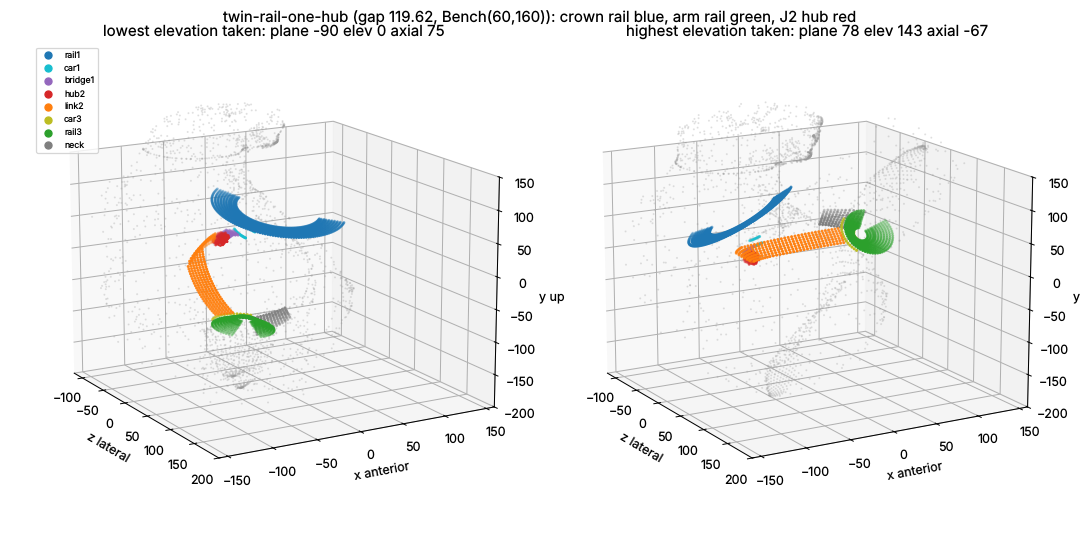
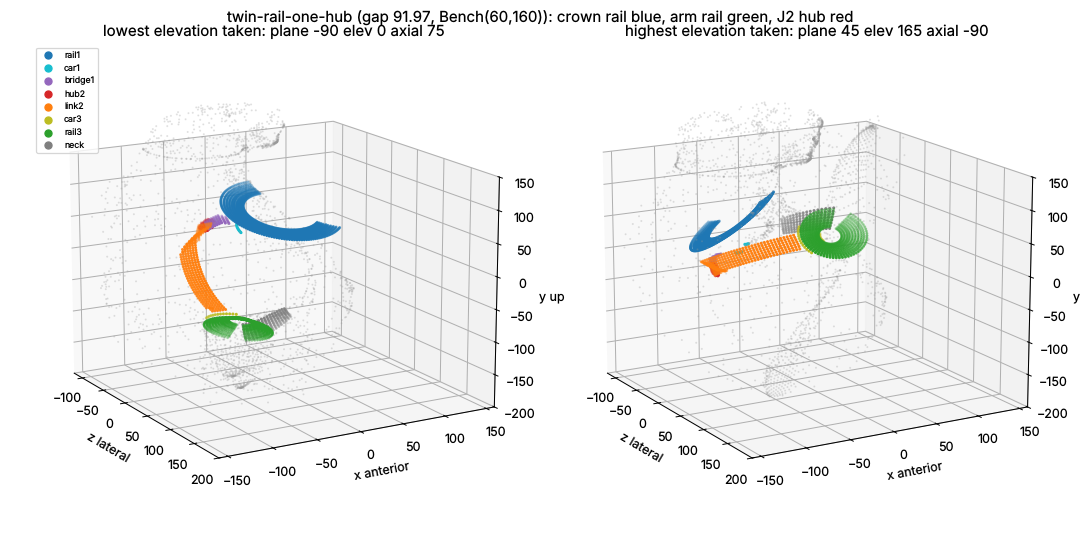
twin-rail-one-hub dead: gate converged over 1509 tries, best 91.97 vs champion 68.93; long constant-section rails cannot hug (crown rail 0 % in band), the arm rail collapses into a ring bearing, J2 / link 2 untouched
Claude-Session: https://claude.ai/code/session_014NJ3o5nJ9b1u4LXnQRjmMh

diff --git a/docs/concepts/twin-rail-one-hub.md b/docs/concepts/twin-rail-one-hub.md
@@ -104,3 +104,78 @@ the arm) is never honest: in every one J2's axis finds no skin to sit on within 
 * **The variant that removes the crown-rail limiter** (`revolve=0`: crown rail shaped per station, a cam track with a
   radial float in carriage 1; an optimistic bound, the float's own height not charged): crown rail 0.64 in band,
   in-band 14 0.42, but **gap 97.64** (reach 0.54, follow 0.82, the same pose losses). Still 29 behind the champion.
+
+## CMA-ES on the farm (tools/concept_cma.py, popsize 8, sigma 0.3; 4 streams; 1712 s wall, $0.19)
+
+Parameters: az1, el1 (crown-rail axis a1), wd, wa (arm-rail axis a3), a12, a23, d1 (rail-to-hub cone offset), ar3,
+cov, Lc; W1 = W3 = 20, margin 10, q 1.0, constant-section rails. Every try is in the sweep log, in order.
+
+| stream (start) | tries | best honest gap | note |
+|---|---|---|---|
+| A (coarse leader k64) | 1105 | **91.97** (k1091) | converged (sigma 0.3 -> collapse); top 5 within 0.02 gap |
+| B (k94) | 81 | none honest | link 2 floats > 140 mm (sparse), best dishonest 103.05 |
+| C (k124, crown rail 0.34 in the coarse) | 97 | none honest | bridge + link 2 float, best dishonest 106.56 |
+| D (k134, arm rail lower on the arm, ar3 31) | 57 | none honest | crown rail, bridge, link 2 float, best dishonest 114.54 |
+
+**Convergence gate (variant a, all 1509 tries in order, score points): gain over the 2nd half 0.10 (< 1), over the
+last third 0.02 (< 0.5), top-5 spread 0.01 (<= 3): CONVERGED** (stream A's basin; stream A alone: 0.10 / 0.05 / 0.01).
+
+**Best k1091** (Bench(60,160), fast grid, march, K2 dense, K6, audit clean; re-run locally: identical 91.97, honest):
+gap **91.97** (score **66.6**): reach 0.744, follow 0.950, in-band 14 0.137, in-band 10 0.084, contact 0. Crown rail
+about a1 = bvec(97.7, 65.3) at cone 31.2 deg (rows 93-108 mm, 216 deg, 184 mm long); J2 at a12 53.4 (level 92 mm,
+15.6 mm free above it: parking rule OK); arm rail a near-closed ring (329 deg, cone 11.2 deg about a3 = wdir(49.0,
+-28.8), rows 112-128 mm, ~22 mm ring radius) - a ring bearing round a lateral humeral pole, not a rail along the
+arm; a23 88.8, sigma -1, cov 0.966, shoe 24 mm (the clamp; CMA asked 23.1). Layout fix point: R1 94 / fitted 93,
+R3 108 / fitted 112 (bands at or above their nominal width). Ti mass 298 g (335 g with 5.5 mm straps).
+Per member in band: crown rail **0.0006**, carriage-1 lips 0.99, bridge 0.0, **hub 2 0.0009**, **link 2 0.0002**,
+carriage-3 lips 0.04, arm rail 0.23, neck 0.97.
+
+## Red team of the best (k1091)
+
+* **Pose groups taken**: rest 57 / 57; **overhead 6 / 17** (3 closure, 4 beyond the rails, 4 part collisions);
+  across the body 20 / 27 (3 closure, 4 beyond the rails); behind the back 18 / 21 (3 beyond the rails).
+* **The pose that jams** (measured per lost overhead pose): the *Raise overhead* clip frames at plane 30, elevation
+  135-150, axial -45..-60: the arm-fixed K7 neck runs into the S-fixed crown rail (K6). Plane 0-30, elevation 150,
+  axial 0: the J2 fold (closure margin -17..-20 deg). Plane 90-120, elevation 150-165, axial -90..-135: beyond the
+  rails' travel. Plane 105, elevation 165: carriage 3 against the neck.
+* **The pose that sets the crown rail**: plane 45, elevation 165, axial -90: rows 93-108 mm against a median skin
+  requirement of **51 mm** along the arc. The arm rail is set by plane 45, elevation 15, axial -105 (strong internal
+  rotation): rows 112-128 mm against a median 90.
+* **The point that pinches**: the neck at 2.02 mm (hand behind the back, plane -90, elev 45, axial 120; and full
+  elevation, plane 60, elev 165) and the arm rail at 2.02 mm (plane 45, elev 15, axial -105): taken, on the 2 mm rule.
+* **The optimistic numbers**: (1) the carriage-1 lips (0.99 in band) and the neck (0.97) carry the whole in-band
+  share; the morphology's own rails and the middle joint are ~0. (2) The shaped crown-rail bound (97.64 at the coarse
+  leader) does not charge the radial float's height. (3) The arm "rail" is legal only because a 24 mm shoe may wrap
+  up to 120 deg of its circle; with the spec's 40-60 mm shoe it would not close at this ring radius.
+
+## Verdict
+
+**Dead, with the gate converged.** Best honest gap 91.97 (score 66.6), against the spherical champion's 68.93 and
+the verified leaders 64.7 / 66.47 on the same idea of a 3R. Measured reasons:
+1. **The rails attack the wrong limiter.** The pole hubs were never the problem (O20 hubs at J1 / J3 sit 98-100 % in
+   band in every verified 3R). The spherical family's limiter, J2 and link 2 over the deltoid, is untouched: here
+   hub 2 is 0.0009 and link 2 0.0002 in band.
+2. **A long arc rail cannot hug.** The 3R's carriage travels are >= ~300 deg in sum over every valid axis set, so
+   each rail spans 120-190 deg plus the shoe. One constant section must clear the highest skin anywhere on that arc
+   in any pose: the crown rail sits 93-108 mm over skin whose median requirement along the arc is 51 mm (set by full
+   elevation, where the arm passes under the S-fixed arc). It is never in band.
+3. **The arm rail cannot be a rail.** To span the humeral rotation range it must wrap 210-330 deg; the search
+   collapses it into a 22 mm ring bearing round a lateral humeral pole, the J3 hub again, and reach is still capped
+   at 0.74 (cov 1.0 would need 420 deg).
+4. **The variant that removes limiter 2** (crown rail shaped per station: a cam track with a radial float, which
+   costs height that was not charged) still scores only 97.64 at the coarse leader's axes: the reach and J2 / link 2
+   losses remain.
+
+What predicts beyond this morphology: any joint realised as an arc rail on a body segment inherits the 3R's joint
+travel (here >= ~300 deg summed), and a rigid constant section on a 120-190 deg arc is set by the single highest
+skin point along the arc over all poses. Rails pay only where the travel is short (< ~60 deg) or where the rail
+follows a body-fixed path whose skin radius is constant along it. Neither holds at J1 or J3 of a shoulder 3R.
+
+## Files
+
+* model: docs/concepts/models/twin-rail-one-hub.py (`check k=v ...`, `redteam k=v ...`; `bench_eval` / `evaluate`
+  hooks for tools/concept_sweep.py and tools/concept_cma.py)
+* sweep log: docs/concepts/sweeps/twin-rail-one-hub.json (1510 entries in order; `stage` says coarse / local / bound
+  / cma-A..D)
+* row: docs/concepts/rows/twin-rail-one-hub.json; sketch: docs/concepts/img/twin-rail-one-hub.png (best k1091,
+  lowest and highest elevation taken)
